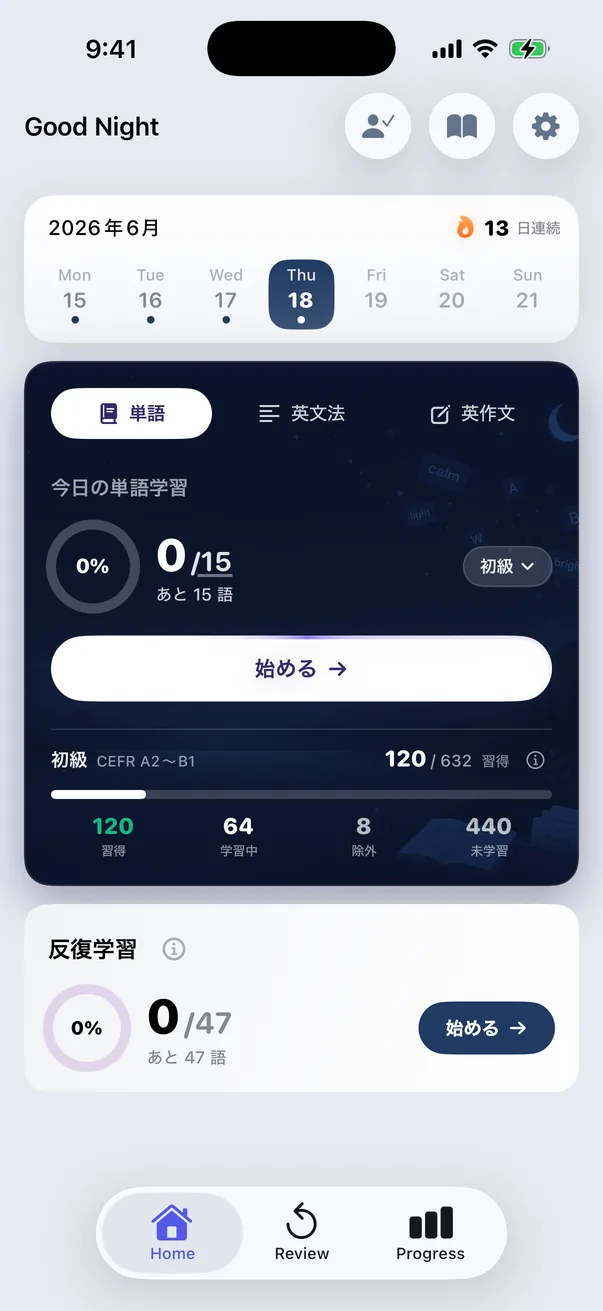
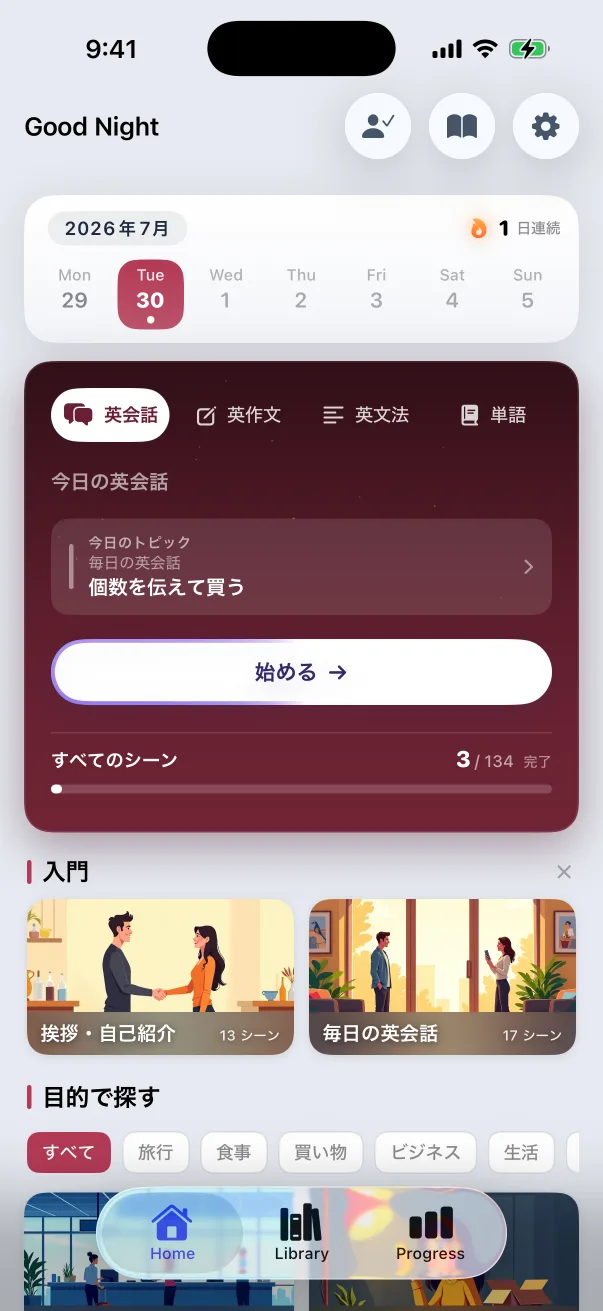
fix(web): ヒーローの2枚を英会話ホーム(ライト/ダーク)に差し替え／機能ブロックは会話・レビューへ復帰
「1-1,1-2」はヒーロー上部の2枚を指す指摘。前回は機能ブロック側に入れていた誤りを修正。
- ヒーロー home-light/dark.webp を英会話タブ選択の新ホーム(1-1/1-2)へ差し替え（?v=0701）
- 機能ブロックは元の会話/AI添削レビュー(conversation-chat/review)に復帰しラベルも戻す
- 重複していた conversation-home-light/dark.webp は削除
プレビューでヒーロー(英会話ホーム ライト/ダーク・3/134)と機能ブロックを確認。

diff --git a/index.html b/index.html
@@ -402,7 +402,7 @@
                         <span class="phone-btn phone-btn-vol-dn"></span>
                         <span class="phone-btn phone-btn-power"></span>
                         <div class="phone-screen">
-                            <img src="screenshots/home-light.webp?v=0618b"
+                            <img src="screenshots/home-light.webp?v=0701"
                                  alt="SnapEnglish ホーム画面 ライトモード — 学習進捗カレンダーと英作文コース一覧"
                                  width="603" height="1311"
                                  loading="eager"
@@ -416,7 +416,7 @@
                         <span class="phone-btn phone-btn-vol-dn"></span>
                         <span class="phone-btn phone-btn-power"></span>
                         <div class="phone-screen phone-screen-dark">
-                            <img src="screenshots/home-dark.webp?v=0618b"
+                            <img src="screenshots/home-dark.webp?v=0701"
                                  alt="SnapEnglish ホーム画面 ダークモード"
                                  width="603" height="1311"
                                  loading="lazy">
@@ -533,13 +533,13 @@
                                 <span class="phone-btn phone-btn-vol-dn"></span>
                                 <span class="phone-btn phone-btn-power"></span>
                                 <div class="phone-screen">
-                                    <img src="screenshots/conversation-home-light.webp?v=0701b"
-                                         alt="AI英会話 — ホーム画面（ライトモード）"
+                                    <img src="screenshots/conversation-chat.webp?v=0701"
+                                         alt="AI英会話 — 場面に沿って AI と英語で会話"
                                          width="603" height="1311"
                                          loading="lazy">
                                 </div>
                             </div>
-                            <p class="text-xs font-semibold text-slate-600 tracking-wide dark:text-slate-300">ライトモード</p>
+                            <p class="text-xs font-semibold text-slate-600 tracking-wide dark:text-slate-300">会話</p>
                         </div>
                         <div class="text-center">
                             <div class="phone-frame mb-3">
@@ -547,14 +547,14 @@
                                 <span class="phone-btn phone-btn-vol-up"></span>
                                 <span class="phone-btn phone-btn-vol-dn"></span>
                                 <span class="phone-btn phone-btn-power"></span>
-                                <div class="phone-screen phone-screen-dark">
-                                    <img src="screenshots/conversation-home-dark.webp?v=0701b"
-                                         alt="AI英会話 — ホーム画面（ダークモード）"
+                                <div class="phone-screen">
+                                    <img src="screenshots/conversation-review.webp?v=0701"
+                                         alt="AI英会話 — 会話後の総合レビューと AI 添削"
                                          width="603" height="1311"
                                          loading="lazy">
                                 </div>
                             </div>
-                            <p class="text-xs font-semibold text-slate-600 tracking-wide dark:text-slate-300">ダークモード</p>
+                            <p class="text-xs font-semibold text-slate-600 tracking-wide dark:text-slate-300">AI 添削レビュー</p>
                         </div>
                     </div>
                 </div>

diff --git a/en/index.html b/en/index.html
@@ -381,7 +381,7 @@
                         <span class="phone-btn phone-btn-vol-dn"></span>
                         <span class="phone-btn phone-btn-power"></span>
                         <div class="phone-screen">
-                            <img src="../screenshots/home-light.webp?v=0618b"
+                            <img src="../screenshots/home-light.webp?v=0701"
                                  alt="SnapEnglish home screen, light mode — calendar and composition courses"
                                  width="603" height="1311"
                                  loading="eager"
@@ -395,7 +395,7 @@
                         <span class="phone-btn phone-btn-vol-dn"></span>
                         <span class="phone-btn phone-btn-power"></span>
                         <div class="phone-screen phone-screen-dark">
-                            <img src="../screenshots/home-dark.webp?v=0618b"
+                            <img src="../screenshots/home-dark.webp?v=0701"
                                  alt="SnapEnglish home screen, dark mode"
                                  width="603" height="1311"
                                  loading="lazy">
@@ -512,13 +512,13 @@
                                 <span class="phone-btn phone-btn-vol-dn"></span>
                                 <span class="phone-btn phone-btn-power"></span>
                                 <div class="phone-screen">
-                                    <img src="../screenshots/conversation-home-light.webp?v=0701b"
-                                         alt="AI Conversation — home screen (light mode)"
+                                    <img src="../screenshots/conversation-chat.webp?v=0701"
+                                         alt="AI Conversation — talk with AI in English toward a goal"
                                          width="603" height="1311"
                                          loading="lazy">
                                 </div>
                             </div>
-                            <p class="text-xs font-semibold text-slate-600 tracking-wide dark:text-slate-300">Light</p>
+                            <p class="text-xs font-semibold text-slate-600 tracking-wide dark:text-slate-300">Conversation</p>
                         </div>
                         <div class="text-center">
                             <div class="phone-frame mb-3">
@@ -526,14 +526,14 @@
                                 <span class="phone-btn phone-btn-vol-up"></span>
                                 <span class="phone-btn phone-btn-vol-dn"></span>
                                 <span class="phone-btn phone-btn-power"></span>
-                                <div class="phone-screen phone-screen-dark">
-                                    <img src="../screenshots/conversation-home-dark.webp?v=0701b"
-                                         alt="AI Conversation — home screen (dark mode)"
+                                <div class="phone-screen">
+                                    <img src="../screenshots/conversation-review.webp?v=0701"
+                                         alt="AI Conversation — post-conversation review with AI feedback"
                                          width="603" height="1311"
                                          loading="lazy">
                                 </div>
                             </div>
-                            <p class="text-xs font-semibold text-slate-600 tracking-wide dark:text-slate-300">Dark</p>
+                            <p class="text-xs font-semibold text-slate-600 tracking-wide dark:text-slate-300">AI review</p>
                         </div>
                     </div>
                 </div>
